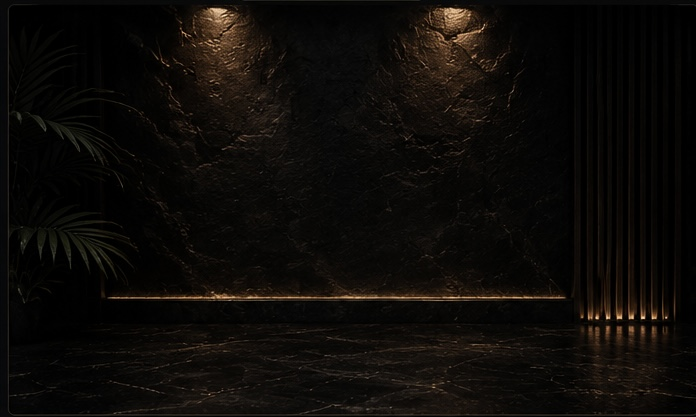
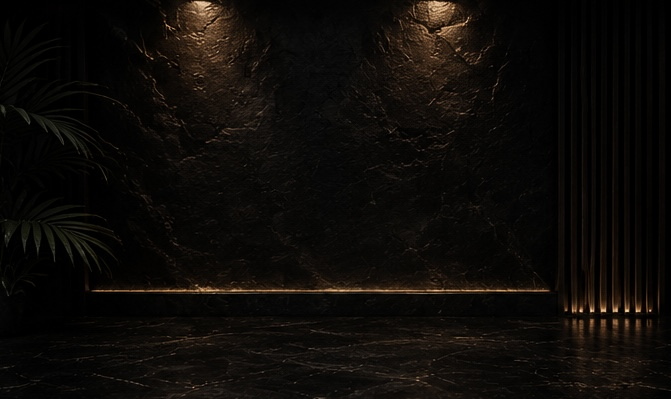
Added search animation

diff --git a/css/style.css b/css/style.css
@@ -304,9 +304,10 @@ display: flex;
 justify-content:center;
 align-items: center;
 width:100%;
-min-height: 100dvh;
+height: 100svh;
 overflow:hidden;
-padding: 90px 20px 40px;
+padding-top: 90px;
+padding-bottom:0;
 isolation:isolate;
 }
 @media (min-width:768px){
@@ -371,10 +372,11 @@ transform:translateY(-2px);
 
 .story{
 position:relative;
-min-height:70vh;
+min-height:92svh;
 padding:90px 25px;
 display:flex;
 flex-direction:column;
+justify-content:center;
 align-items:center;
 overflow:hidden;
 isolation:isolate;
@@ -418,7 +420,7 @@ transform:translateY(0);
 .story-text::after{
 content:"|";
 display:inline-block;
-margin-right:4px;
+margin-right:3px;
 color:#c8a062;
 animation: blink .8s infinite;
 }